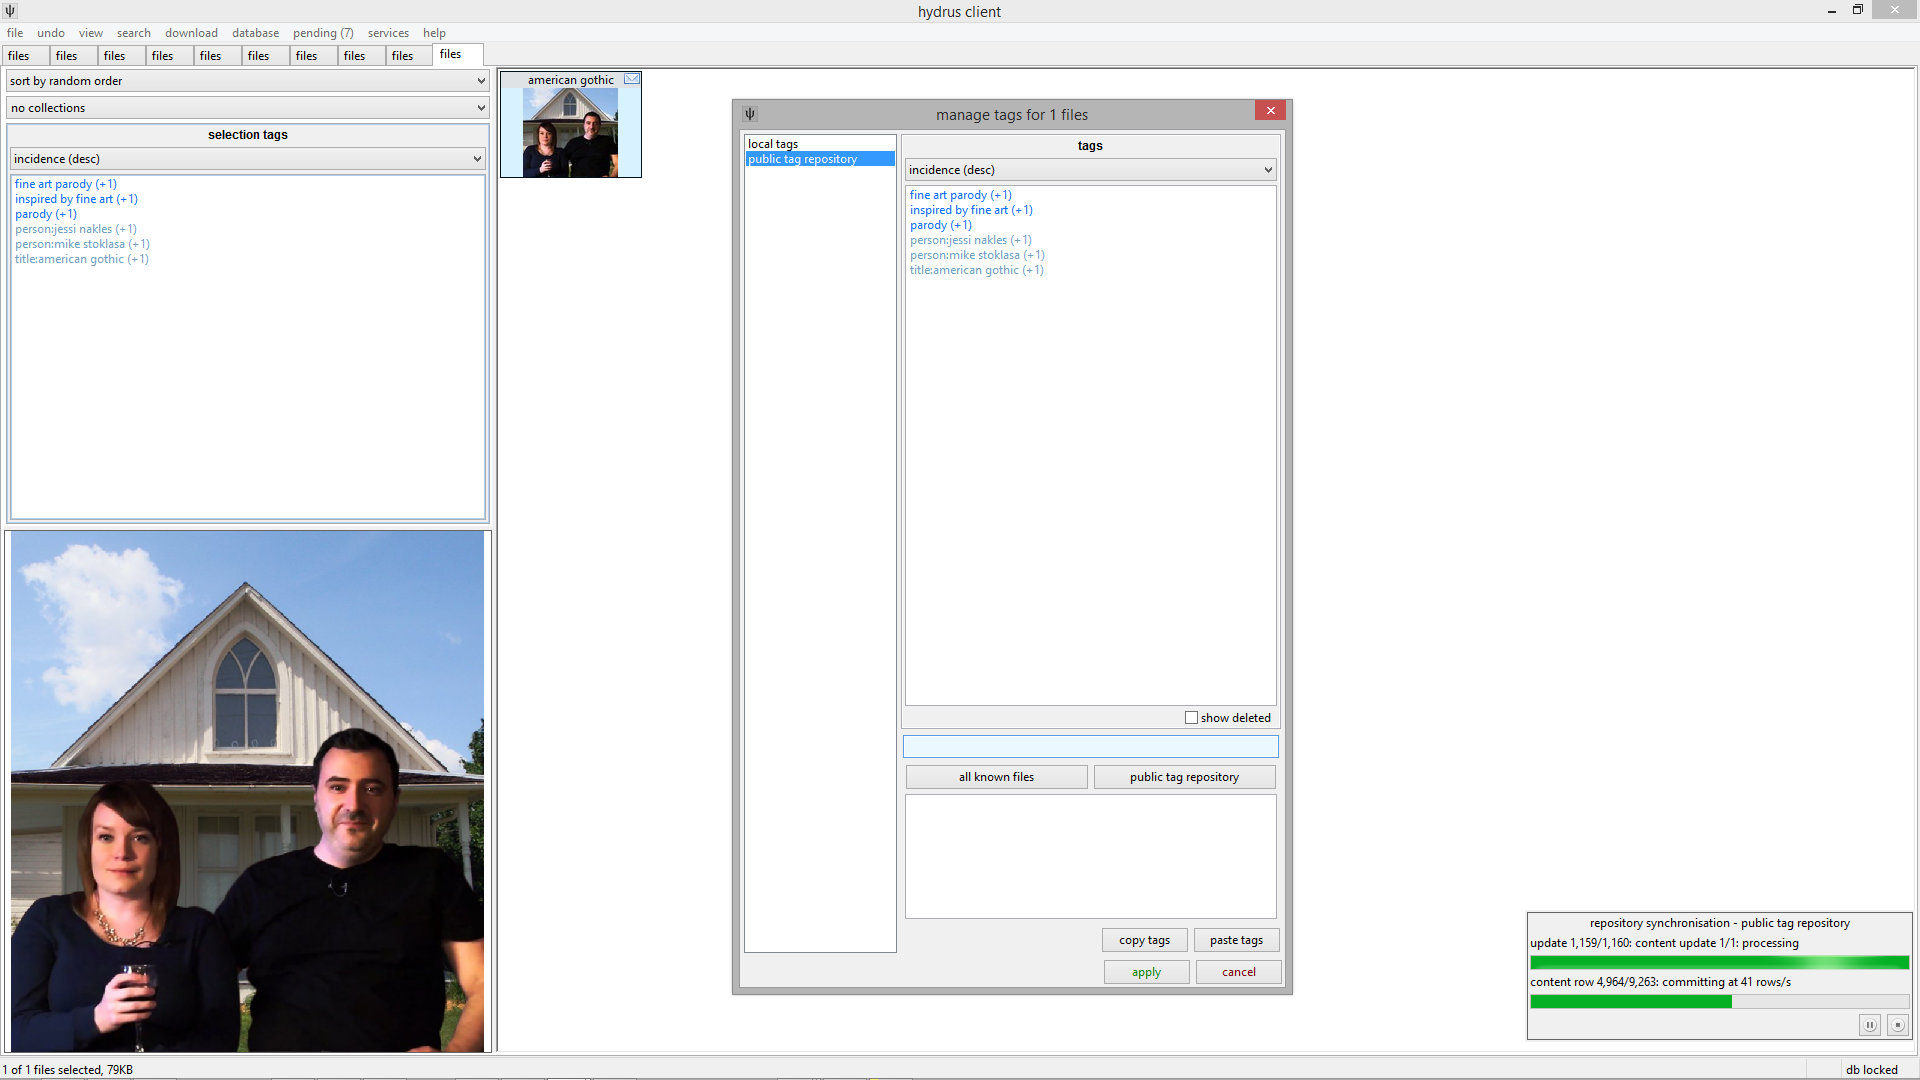
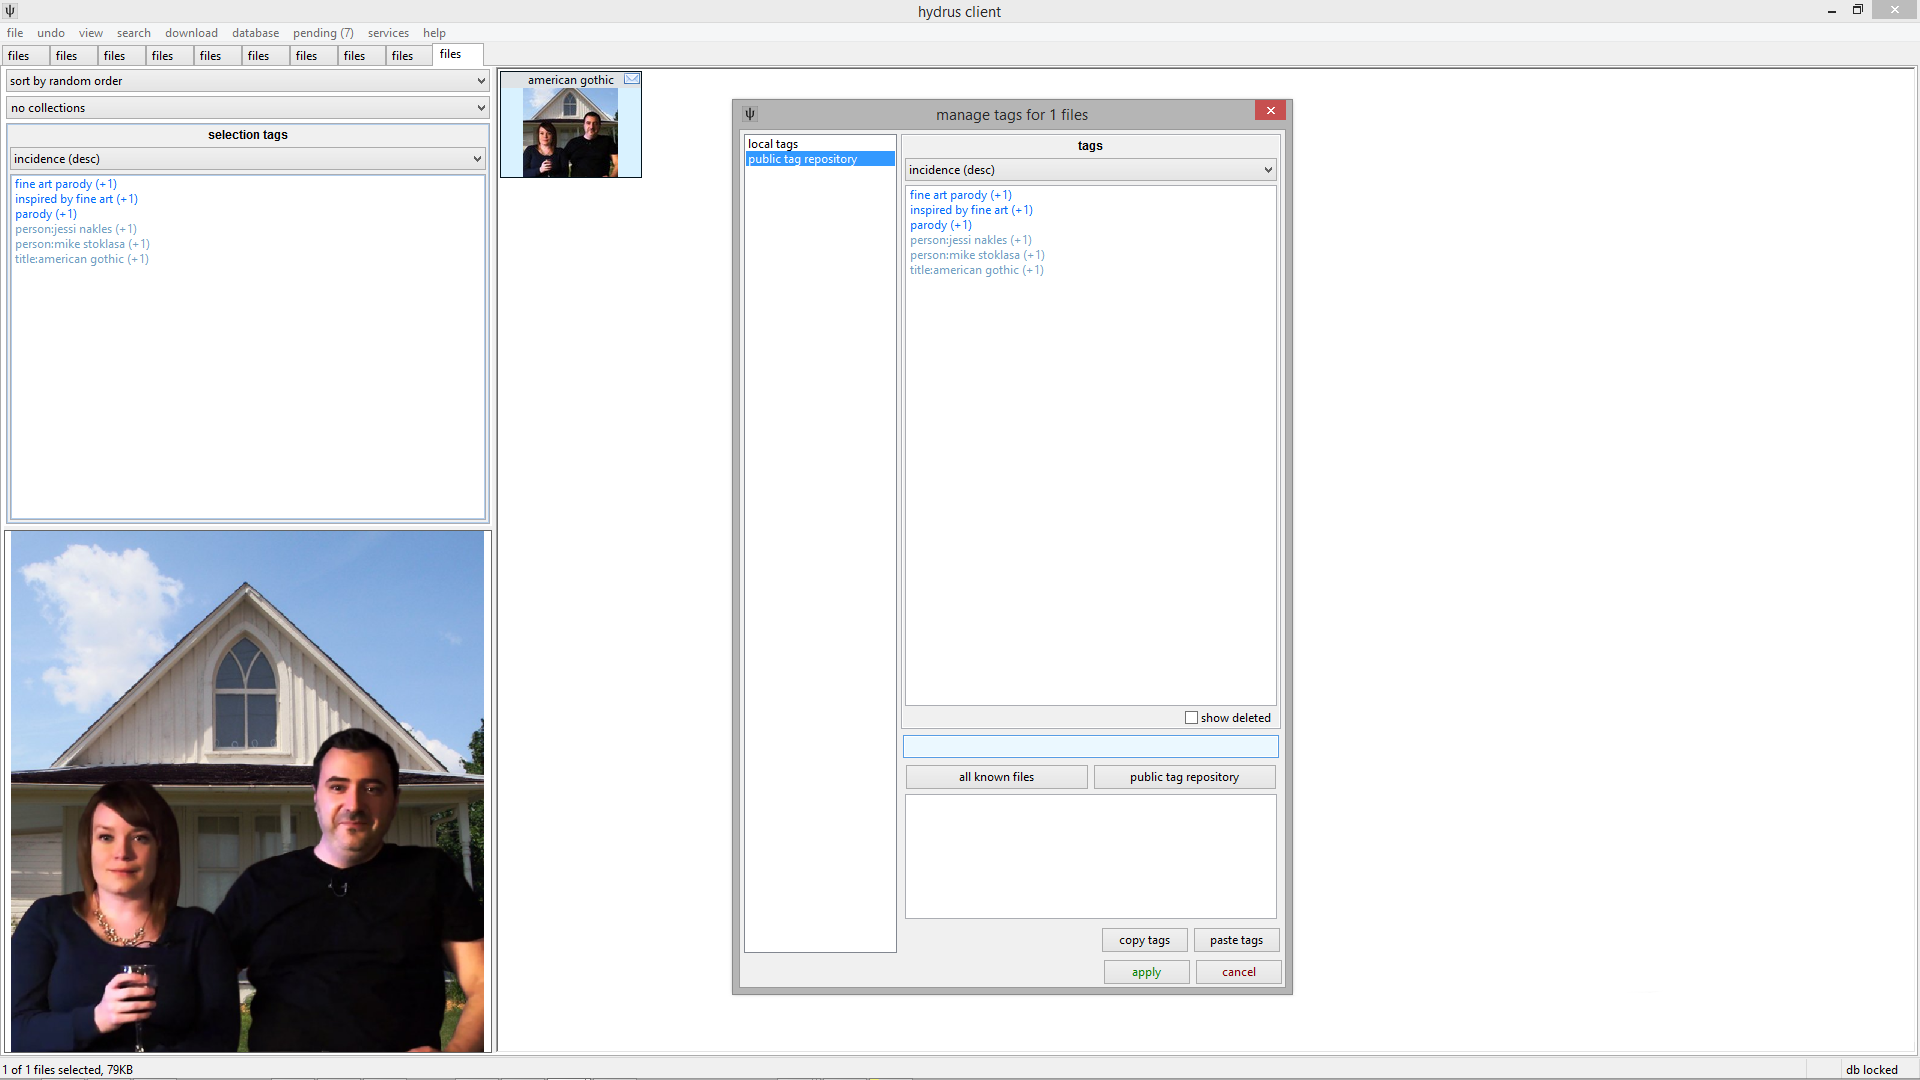
Version 171

Changed region(s): [[0.7812, 0.825, 1.0, 0.9778]]

diff --git a/help/changelog.html b/help/changelog.html
@@ -8,6 +8,50 @@
 		<div class="content">
 			<h3>changelog</h3>
 			<ul>
+				<li><h3>version 171</h3></li>
+				<ul>
+					<li>improved isalreadyrunning code</li>
+					<li>fixed isalreadyrunning code for the Linux frozen build</li>
+					<li>the client's isalreadyrunning splash check will respond more quickly if you choose to wait</li>
+					<li>repository processing sync will no longer update the frontend, which approx doubles its speed</li>
+					<li>repository processing sync now only occurs when the client is idle, so it won't slow your browsing down</li>
+					<li>if you catch the client while it is processing, doing pretty much any action will make it quit out nice and quick</li>
+					<li>repository processing sync now occurs at a lower db level, meaning less laggy popup ui update and overall faster processing time</li>
+					<li>repository popup disappears after a few seconds once it is done--if you leave your client on all the time, you probably won't see it again.</li>
+					<li>split 'maintenance and memory' options panel into 'maintenance and processing' and 'speed and memory'</li>
+					<li>added 'cpu busy' option to options->maintenance and processing</li>
+					<li>added 'run stuff on shutdown' option to options->maintenance and processing to set whether pending db maintenance and repo processing can happen on shutdown</li>
+					<li>added 'max minutes on shutdown' option to options->maintenance and processing to limit how much shutdown processing can be done in one sitting</li>
+					<li>repositories can now sync on shutdown--they will report through the splash window</li>
+					<li>shutdown maintenance is checked and run in a better way</li>
+					<li>moved to a two-stage shutdown procedure</li>
+					<li>daemons are better kept track of, and they talk to the controller in a better way</li>
+					<li>daemons shut down in a better way</li>
+					<li>improved a bunch of idle/busy/just woke from sleep logic</li>
+					<li>improved how the controller maintains the db and memory</li>
+					<li>improved force_idle mode in the client</li>
+					<li>idle calculation is more accurate, and resets on more user-driven events</li>
+					<li>improved responsivity for processing popup</li>
+					<li>fixed a serious bug that was counting some unprocessed content as done when the service processing window was cancelled</li>
+					<li>misc code improvements</li>
+					<li>misc maintenance code improvements</li>
+					<li>fixed a bug with parentless center-positioned dialogs not sizing themselves properly</li>
+					<li>removed delete_orphans timespan param option</li>
+					<li>fixed bugs selecting and media-viewering collected media</li>
+					<li>fixed a missing thumbnail selection bug</li>
+					<li>fixed some os x dialog interaction and z-order problems when the splash screen is open</li>
+					<li>os x splash screen is no longer stay_on_top</li>
+					<li>fixed the 110.00% display bug</li>
+					<li>removed wx from pubsub code</li>
+					<li>pubsubs now route through the controller</li>
+					<li>reduced some pubsub overhead, we'll see if it smooths out some of the gritty stuff</li>
+					<li>misc thread worker pool is now managed by and routed through controller</li>
+					<li>some other thread-wx interaction is now routed through clientcontroller</li>
+					<li>db now interacts with controller directly, not through wx</li>
+					<li>all other indirect references to controller go through hydrusglobals, not wx</li>
+					<li>refactored everything wx away from everything hydrus/server except controller code</li>
+					<li>about window now says the client's network version</li>
+				</ul>
 				<li><h3>version 170</h3></li>
 				<ul>
 					<li>added media viewer mime options to file->options->media page</li>

diff --git a/help/getting_started_more_files.html b/help/getting_started_more_files.html
@@ -50,9 +50,9 @@
 			<p><img src="edit_repos_file_repo.png" /></p>
 			<p>Here's the info so you can copy it:</p>
 			<ul><li>8f8a3685abc19e78a92ba61d84a0482b1cfac176fd853f46d93fe437a95e40a5@hydrus.no-ip.org:45872</li></ul>
-			<p>Hit ok and then go <i>services->review services</i> to see your new file repository. In a few seconds, your client will start synchronising with it.</p>
+			<p>Hit ok and then go <i>services->review services</i> to see your new file repository. Over time, usually when it is idle, your client will download updates from the repository until it is fully synchronised. You can customise when this happens in <i>file->options->maintenance and processing</i>.</p>
 			<p><img src="review_services.png" /></p>
-			<p>From now on, you will see your new repository under <i>F9->files</i>. A repository search page works exactly like a local or a trash one, it just uses a different file list. Files you do not have will be drawn with a dark background, those you do will be drawn as normal. You might not see all the thumbnails until you are fully synchronised.</p>
+			<p>From now on, you will see your new repository under <i>F9->files</i> (although until your client has done some synchronisation, you will not see any files). A repository search page works exactly like a local or a trash one, it just uses a different file list. Files you do not have will be drawn with a dark background, those you do will be drawn as normal. You might not see all the thumbnails until you are fully synchronised.</p>
 			<p>To download a file, double- or middle-click it, or select from the right click menu. It should pop in fairly quickly.</p>
 			<p>If you have permission to upload files to a particular repository, that option will appear in the right-click menu for any local files. Selecting this will pend them for batch uploading; just select from the new <i>pending</i> menu to start the upload when you are ready.</p>
 			<p class="right"><a href="getting_started_tags.html">Ok, I'm ready to learn about tags! ----></a></p>

diff --git a/help/access_keys.html b/help/access_keys.html
@@ -18,7 +18,7 @@
 				<li>public tag repository: 4a285629721ca442541ef2c15ea17d1f7f7578b0c3f4f5f2a05f8f0ab297786f@hydrus.no-ip.org:45871</li>
 				<li>read-only file repository: 8f8a3685abc19e78a92ba61d84a0482b1cfac176fd853f46d93fe437a95e40a5@hydrus.no-ip.org:45872</li>
 			</ul>
-			<p><b>Tags are rich, cpu-intensive metadata. My repository has millions of mappings, and your client will download and store them all. It will take a few hundred MB and several <i>hours</i> to fully synchronise. You can close the client at any time, and it will continue where it left off when it next boots. If it is slowing your normal browsing, you can pause it temporarily from the popup message or indefinitely at either the <i>manage services</i> dialog or for all services at <i>services->pause->repositories synchronisation</i>.</b></p>
+			<p><b>Tags are rich, cpu-intensive metadata. My repository has millions of mappings, and your client will download and store them all. It will take a few hundred MB and several <i>hours</i> total processing time to fully synchronise. It will mostly happen in the background, without you noticing. if you close the client, it will continue where it left off when it next boots.</b></p>
 		</div>
 	</body>
 </html>
